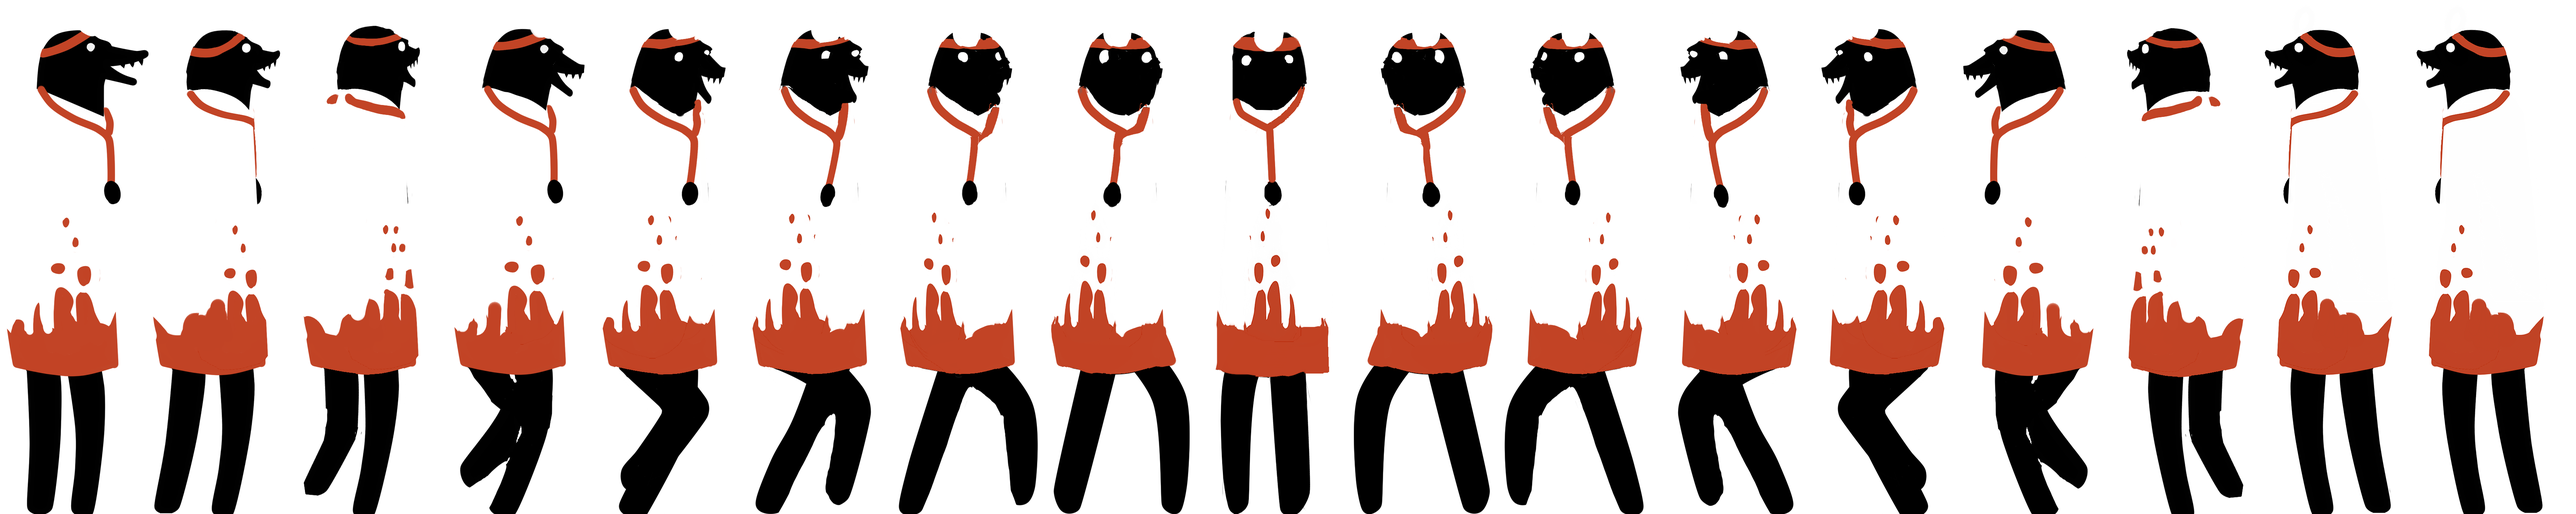
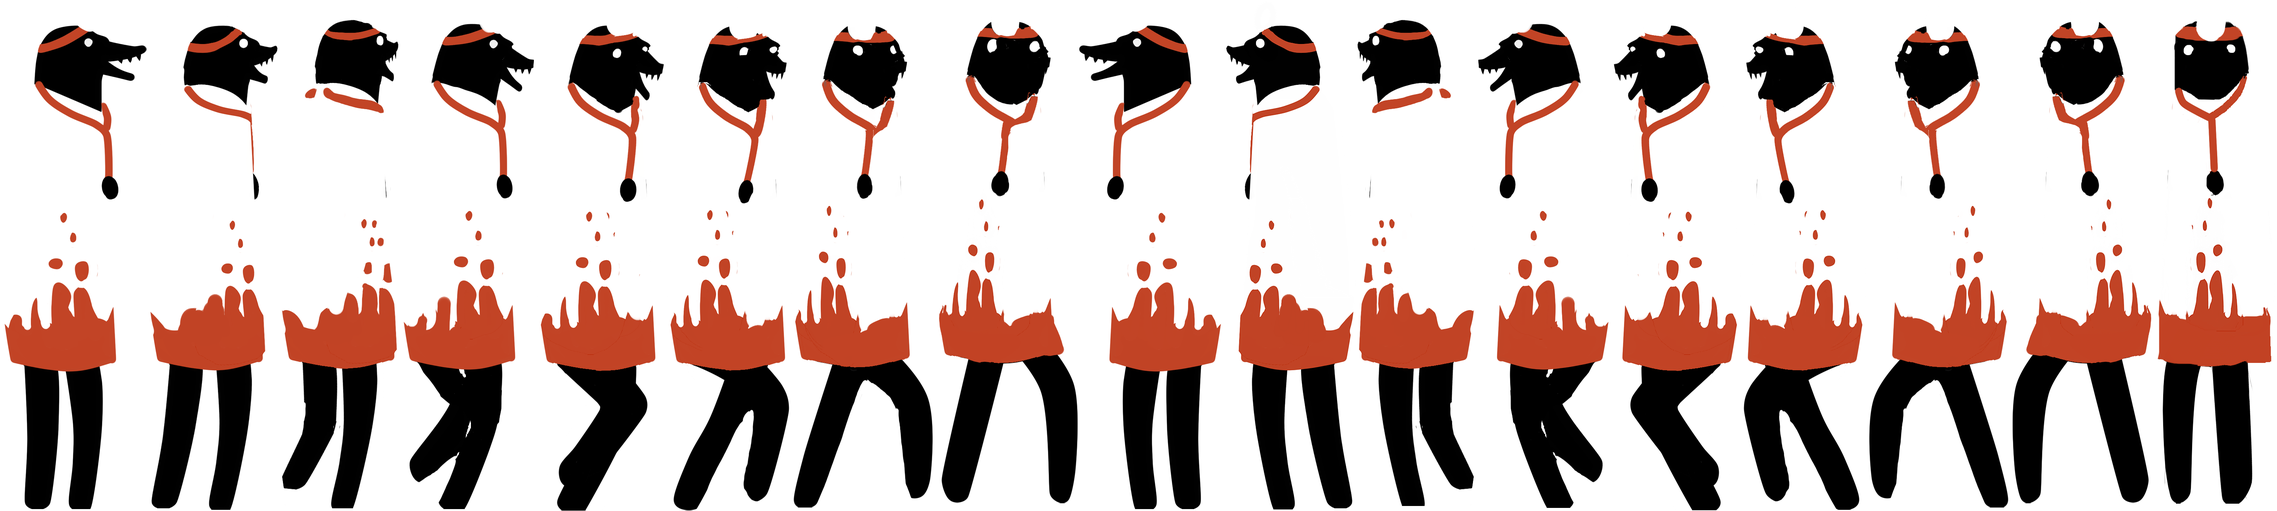
Endstate, buttons, ducktor atlas, and half of notes

diff --git a/Transplant/game/js/states/play.js b/Transplant/game/js/states/play.js
@@ -7,6 +7,7 @@ var obstacleHideGroup; //Obstacle group for objects that youv can hide behind
 var obstacleGroup;	//Obstacle group for obejcts with full hit box
 var obstaclePushGroup; //Obstacle group for objects that player can push
 var obstacleClimbGroup; //Obstacle group for objects that player can climb and only top hitbox
+var noteGroup; //group for notes
 var enemyGroup; //group for enemies
 var group2; //top layer
 var group3; //Layer above everything to do lighting
@@ -26,6 +27,9 @@ var hidePlatform; //hit detection on ground when player is hiding
 var playerSpawnX = 50; // where to spawn the player after entering a door, etc
 var pushCollide; //check if player is collidiing with pushable objects
 var pushOverlap; //check if player is overlapping with pushable objects
+var levelData; //json file being used
+var reading = false; //if player is looking at something in the note group
+var canMove = true; //Checks if player can move at this time
 
 var playState = {
 	preload: function(){
@@ -47,6 +51,7 @@ var playState = {
 		obstacleGroup = game.add.group(); // obstacles
 		obstaclePushGroup = game.add.group(); //pushable objects
 		obstacleClimbGroup = game.add.group(); //climbable obstacles
+		noteGroup = game.add.group(); //notes
 		enemyGroup = game.add.group(); // enemies
 		group2 = game.add.group();//top layer
 		group3 = game.add.group();//Lighting layer
@@ -56,7 +61,7 @@ var playState = {
 		platforms2 = game.add.group();
 
 
-		generateLevel('level0');
+		generateLevel('room303');
 
 		//Bring these groups to the forefront
 		game.world.bringToTop(group2);
@@ -82,7 +87,7 @@ var playState = {
 
 		//Use E key to open the door
 		this.interactKey = game.input.keyboard.addKey(Phaser.Keyboard.E);
-		this.interactKey.onDown.add(this.interactDoor);
+		this.interactKey.onDown.add(this.interact);
 
 
 	},
@@ -113,7 +118,7 @@ var playState = {
 		distanceFromGround = (game.world.height-128) - player.position.y; //continually calculate
 
 		//Climb objects
-		if(climb && foreground == true && player.body.velocity.y < 15.1){ //can only climb when in front of the object
+		if(climb && foreground == true && player.body.velocity.y < 15.1 && canMove == true){ //can only climb when in front of the object
 			if(game.input.keyboard.isDown(Phaser.Keyboard.W) && player.body.velocity.y == 0){
 				if(player.frame >= 13 || player.frame <= 0){ //reset the frames
 					player.frame = 0; //set to bottom climb frames
@@ -168,7 +173,7 @@ var playState = {
 			playerDirection = 0; //Left
 		}
 
-		if(game.input.keyboard.isDown(Phaser.Keyboard.A) && canControl == true){
+		if(game.input.keyboard.isDown(Phaser.Keyboard.A) && canControl == true && canMove == true){
 			//move left
 			playerDirection --; //player was moving left
 			if(foreground == true){
@@ -196,7 +201,7 @@ var playState = {
 				player.body.velocity.x = -75;
 			}
 		}
-		else if(game.input.keyboard.isDown(Phaser.Keyboard.D) && canControl ==true){
+		else if(game.input.keyboard.isDown(Phaser.Keyboard.D) && canControl == true && canMove == true){
 			//move right
 			playerDirection ++; //player was moving right
 			if(foreground == true){
@@ -237,9 +242,12 @@ var playState = {
 				}
    			}
    		}
+   		if(levelData.backgroundData == "endingBackground" && player.position.x >= 3500){
+			game.state.start('end');
+		}
 	},
 	hide: function(){
-		if(isClimbing == false && !climb && !hide && !pushOverlap){ //Don't allow player to hide when in front of the object
+		if(isClimbing == false && !climb && !hide && !pushOverlap && canMove == true){ //Don't allow player to hide when in front of the object
 			if(foreground==true && distanceFromGround <= 40){
 				//move player from foreground to layer behind the object
 				group2.remove(player);
@@ -271,22 +279,46 @@ var playState = {
 	jump: function(){
 		//Scenario checks to see if you can jump
 		//Touching the ground, while climbing, in front of a climbable object on the ground, on top of obstacleGroup
-		if((hitPlatform && distanceFromGround <= 40) || isClimbing == true || (climb == true && distanceFromGround <= 40)|| player.body.touching.down){
-			if(foreground == true){
-				player.animations.stop();
-				if(playerDirection == 0){
-					player.frame = 41; // Jumping Left
+		if(canMove == true){	
+			if((hitPlatform && distanceFromGround <= 40) || isClimbing == true || (climb == true && distanceFromGround <= 40)|| player.body.touching.down){
+				if(foreground == true){
+					player.animations.stop();
+					if(playerDirection == 0){
+						player.frame = 41; // Jumping Left
+					}
+					if(playerDirection == 1){
+						player.frame = 35; //Jumping Right
+					}
+					player.body.velocity.y = -400; //jump height
+					isClimbing = false;
 				}
-				if(playerDirection == 1){
-					player.frame = 35; //Jumping Right
-				}
-				player.body.velocity.y = -400; //jump height
-				isClimbing = false;
 			}
 		}
 	},
-	interactDoor: function(){
+	interact: function(){
 		var doorEntering;
+		var noteReading;
+		for(var i = 0; i < noteGroup.children.length; i++){
+			noteReading = noteGroup.children[i];
+			if(game.physics.arcade.overlap(player, noteReading)){
+				var read = game.add.tileSprite(100, -125, 996, 800, noteReading.leadsTo); 
+				read.alpha = 0;
+				console.log(read.alpha);
+				if(reading == false){
+					read.alpha = 1;
+					read.fixedToCamera = true;
+					reading = true;
+					canMove = false;
+					console.log(read.alpha);
+				}
+				else{
+					read.alpha = 0;
+					reading = false;
+					canMove = true;
+					console.log(read.alpha);
+				}
+			}
+		}
 		if(foreground == true){
 			for(var i = 0; i < doorGroup.children.length; i++) {
 			
@@ -304,8 +336,6 @@ var playState = {
 		}
 		
 	}
-
-	
 };
 
 var generateLevel = function(levelName) {
@@ -319,6 +349,7 @@ var generateLevel = function(levelName) {
 	obstacleGroup.forEach(function (c) {c.kill();});
 	obstaclePushGroup.forEach(function (c) {c.kill();});
 	obstacleClimbGroup.forEach(function (c) {c.kill();});
+	noteGroup.forEach(function (c) {c.kill();});
 	while(enemyGroup.length > 0) {
 		// destroy can cause forEach to skip index. While loop helps ensure that all enemies get destroyed.
 		enemyGroup.forEach(function (c) {c.kill(); c.destroy(); console.log('destroyed');});
@@ -327,7 +358,7 @@ var generateLevel = function(levelName) {
 	group2.forEach(function (c) {c.kill();});
 	group3.forEach(function (c) {c.kill();});
 
-	var levelData = game.cache.getJSON(levelName);
+	levelData = game.cache.getJSON(levelName);
 
 	//Set camera bounds
 	//Change this to work per level in the JSON
@@ -371,6 +402,15 @@ var generateLevel = function(levelName) {
 		//console.log(obstacleTemp);
 	} 
 
+	for (var index = 0; index < levelData.noteData.length; index++) {
+		// set element to the object and use it's parameters
+		var noteTemp = new Note(game, levelData.noteData[index].frame, levelData.noteData[index].name, levelData.noteData[index].leadsTo, levelData.noteData[index].xPos, levelData.noteData[index].yPos);
+		noteTemp.scale.setTo(0.05, 0.05);
+		game.physics.enable(noteTemp);
+		game.add.existing(noteTemp);
+		noteGroup.add(noteTemp);
+	} 
+
 	//Player object
 	player = game.add.sprite(playerSpawnX, game.world.height - 175, 'atlas', 'patient 1.png');
 	//player properties
@@ -394,7 +434,7 @@ var generateLevel = function(levelName) {
 	// generate enemies
 	for (var index = 0; index < levelData.enemyData.length; index++) {
 		// set element to the object and use it's parameters
-		var enemyTemp = new Enemy(game, levelData.enemyData[index].frame, levelData.enemyData[index].xPos, levelData.enemyData[index].yPos, levelData.enemyData[index].walkSpeed, levelData.enemyData[index].runSpeed, levelData.enemyData[index].walkDist, levelData.enemyData[index].turnTime, levelData.enemyData[index].facing, player);
+		var enemyTemp = new Enemy(game, levelData.enemyData[index].key, levelData.enemyData[index].frame, levelData.enemyData[index].xPos, levelData.enemyData[index].yPos, levelData.enemyData[index].walkSpeed, levelData.enemyData[index].runSpeed, levelData.enemyData[index].walkDist, levelData.enemyData[index].turnTime, levelData.enemyData[index].facing, player);
 		enemyTemp.scale.x = 0.17;
 		enemyTemp.scale.y = 0.145;
 		console.log(enemyTemp.target);

diff --git a/Transplant/game/js/states/menu.js b/Transplant/game/js/states/menu.js
@@ -1,31 +1,31 @@
 //Global Variables
 var title; //title logo and background
 var playButton; //the play button
-
+var scale = 1;
 var menuState = {
 	create: function(){
 		console.log('Menu: create');
 
 		title = game.add.tileSprite(0,0,1200,800, 'title');
-		playButton = game.add.tileSprite(75, 350, 80, 61, 'playButton');
+		playButton = game.add.button(75, 350, 'playButton', this.actionOnClick, this, 1, 1);
+
+		playButton.onInputOver.add(this.over, this);
+		playButton.onInputOut.add(this.out, this);
 		//Make transparent
 		title.alpha = 0;
 		playButton.alpha = 0;
 
-		//Do event after 500 ms
-		game.time.events.add(Phaser.Timer.HALF, this.fadeOption, this);
-
 		//Adding fade effects
 		game.add.tween(title).to( {alpha: 1}, 2000, Phaser.Easing.Linear.None, true, 0, 0, false); //(sprite).to({variable change}, speed between changes, style, loop maybe, ms delay, # of iterations, ???)
-		game.add.tween(playButton).to( {alpha: 1}, 2000, Phaser.Easing.Linear.None, true, 0, 0, false); //initial fade for playButton to coincide with title
+		game.add.tween(playButton).to( {alpha: 0.5}, 2000, Phaser.Easing.Linear.None, true, 0, 0, false); //initial fade for playButton to coincide with title
 	},
-	fadeOption: function(){
-		game.add.tween(playButton).to( {alpha: 1}, 750, Phaser.Easing.Linear.None, true, 0, 6000, true).loop(true); //playButton continues to fade and faster
-		this.EKey = this.input.keyboard.addKey(Phaser.Keyboard.E); //use of E on keyboard
-		this.input.keyboard.addKeyCapture(Phaser.Keyboard.E); //disable browser capturing key for unintended effects
-		this.EKey.onDown.add(this.PressE, this); //create function when E key is pressed
+	over: function(){
+		playButton.alpha = 1;
 	},
-	PressE: function() {
+	out: function(){
+		playButton.alpha = 0.5;
+	},
+	actionOnClick: function() { //when player clicks on playButton
 		this.state.start('play'); //Switch to the next state
 	}
 };

diff --git a/Transplant/game/js/prefabs/Enemy.js b/Transplant/game/js/prefabs/Enemy.js
@@ -7,10 +7,10 @@
 // game, key, frame are all required for Phaser.Sprite
 // key is image location, such as atlas
 // frame is the image name as determined in load
-function Enemy(game, frame, xPos, yPos, walkSpeed, runSpeed, walkDist, turnTime, facing, target) {
+function Enemy(game, key, frame, xPos, yPos, walkSpeed, runSpeed, walkDist, turnTime, facing, target) {
 	// call to Phaser.Sprite 
 	// new Sprite(game, x, y, key, frame)
-	Phaser.Sprite.call(this, game, xPos, yPos, frame);
+	Phaser.Sprite.call(this, game, xPos, yPos, key, frame);
 
 	this.anchor.set(0.5); // set anchor point to middle 
 	game.physics.enable(this); // give physics
@@ -30,8 +30,8 @@ function Enemy(game, frame, xPos, yPos, walkSpeed, runSpeed, walkDist, turnTime,
 
 	this.seesPlayer = false;
 
-	this.animations.add('walkRight', [1,2,3,4,5,6, 7, 8], 10, true);
-	this.animations.add('walkLeft', [10,11,12,13,14,15,16,17], 10, true);
+	this.animations.add('walkRight', [0,1,2,3,4,5,6,7], 10, true);
+	this.animations.add('walkLeft', [8,9,10,11,12,13,14,15], 10, true);
 }
 
 Enemy.prototype = Object.create(Phaser.Sprite.prototype);
@@ -96,8 +96,8 @@ Enemy.prototype.update = function() {
 	} else if (this.facing == 'right' && this.walkSpeed != 0) {
 		this.animations.play('walkRight');
 	} else if ( this.facing == 'left' && this.walkSpeed == 0 ) {
-		this.frame = 16;
+		this.frame = 8;
 	} else if ( this.facing == 'right' && this.walkSpeed == 0) {
-		this.frame = 1;
+		this.frame = 0;
 	}
 };

diff --git a/Transplant/game/js/states/load.js b/Transplant/game/js/states/load.js
@@ -15,7 +15,7 @@ var load = {
 		game.load.image('patientRoom', 'patientRoom.jpg');
 		game.load.image('HallBG', 'HallBG.jpg');
 		game.load.image('lab', 'lab.jpg');
-		
+		game.load.image('gameOver', 'gameOver.jpg');
 
 		//title screen
 		game.load.image('title', 'titleScreen.png');
@@ -24,7 +24,7 @@ var load = {
 		// sprites
 		game.load.image('box', 'box.png');
 		game.load.atlas('atlas', 'patient.png', 'patient.json');
-		game.load.spritesheet('ducktor', 'ducktor.png', 385, 1332);
+		game.load.atlas('atlas2', 'ducktor.png', 'ducktor.json');
 		
 		game.load.image('normalDoor', 'normalDoor.png');
 		game.load.image('transitionDoor', 'door2.png');
@@ -39,6 +39,7 @@ var load = {
 		game.load.image('bed', 'hospitalBed.png');
 		game.load.image('medBox', 'MedBox.png');
 		game.load.image('labDoor', 'labDoor.png');
+		game.load.image('newsArticle', 'newsArticle.png');
 
 		// load in level files
 		game.load.path = '../game/data/';

diff --git a/Transplant/game/index.html b/Transplant/game/index.html
@@ -7,10 +7,12 @@
 	<script type="text/javascript" src="js/states/load.js"></script>
 	<script type="text/javascript" src="js/states/menu.js"></script>
 	<script type="text/javascript" src="js/states/play.js"></script>
+	<script type="text/javascript" src="js/states/end.js"></script>
 	<script type="text/javascript" src="js/states/game.js"></script>
 	<script type="text/javascript" src="js/prefabs/Enemy.js"></script>
 	<script type="text/javascript" src="js/prefabs/Obstacle.js"></script>
 	<script type="text/javascript" src="js/prefabs/Door.js"></script>
+	<script type="text/javascript" src="js/prefabs/Note.js"></script>
 	<link rel="stylesheet" type="text/css" href="css/styles.css">
 </head>
 <body>

diff --git a/Transplant/game/js/states/end.js b/Transplant/game/js/states/end.js
@@ -1,0 +1,17 @@
+var endState = {
+	create: function(){
+		var end = game.add.tileSprite(0,0,1200,800, 'gameOver');
+		var button = game.add.button(1055, 555, 'playButton', this.actionOnClick, this);
+		button.scale.setTo(1.65,0.5);
+		button.alpha = 0;
+
+		//Make transparent
+		end.alpha = 0;
+
+		//Adding fade effects
+		game.add.tween(end).to( {alpha: 1}, 2000, Phaser.Easing.Linear.None, true, 0, 0, false);
+	},
+	actionOnClick: function(){
+		game.state.start('menu');
+	}
+};

diff --git a/Transplant/game/js/prefabs/Note.js b/Transplant/game/js/prefabs/Note.js
@@ -1,0 +1,21 @@
+//
+// Door.js
+// Prefab for door objects
+
+//Door constructor
+function Note(game, frame, name, leadsTo, xPos, yPos) {
+
+	// call to Phaser.Sprite
+	Phaser.Sprite.call(this, game, xPos, yPos, frame);
+
+	// constructor customized properties
+	this.xPos = xPos;
+	this.yPos = yPos; 
+	this.name = name;
+	this.leadsTo = leadsTo;
+
+	this.anchor.set(0.5, 0.5);
+}
+
+Note.prototype = Object.create(Phaser.Sprite.prototype);
+Note.prototype.constructor = Note;

diff --git a/Transplant/game/js/prefabs/Obstacle.js b/Transplant/game/js/prefabs/Obstacle.js
@@ -46,6 +46,12 @@ function Obstacle(game, frame, xPos, yPos, xScale, yScale, pushable, climbable, 
 		this.body.checkCollision.right = false;
 	}
 
+	if(this.collidable == 'none'){
+		this.body.checkCollision.up = false;
+		this.body.checkCollision.left = false;
+		this.body.checkCollision.right = false;
+		this.body.checkCollision.down = false;
+	}
 }
 
 Obstacle.prototype = Object.create(Phaser.Sprite.prototype);

diff --git a/Transplant/game/js/states/game.js b/Transplant/game/js/states/game.js
@@ -4,5 +4,6 @@ var game = new Phaser.Game(1200, 600, Phaser.AUTO, 'gameDiv'); //define game, te
 game.state.add('load', load);
 game.state.add('menu', menuState);
 game.state.add('play', playState);
+game.state.add('end', endState);
 
 game.state.start('load'); //start at load
